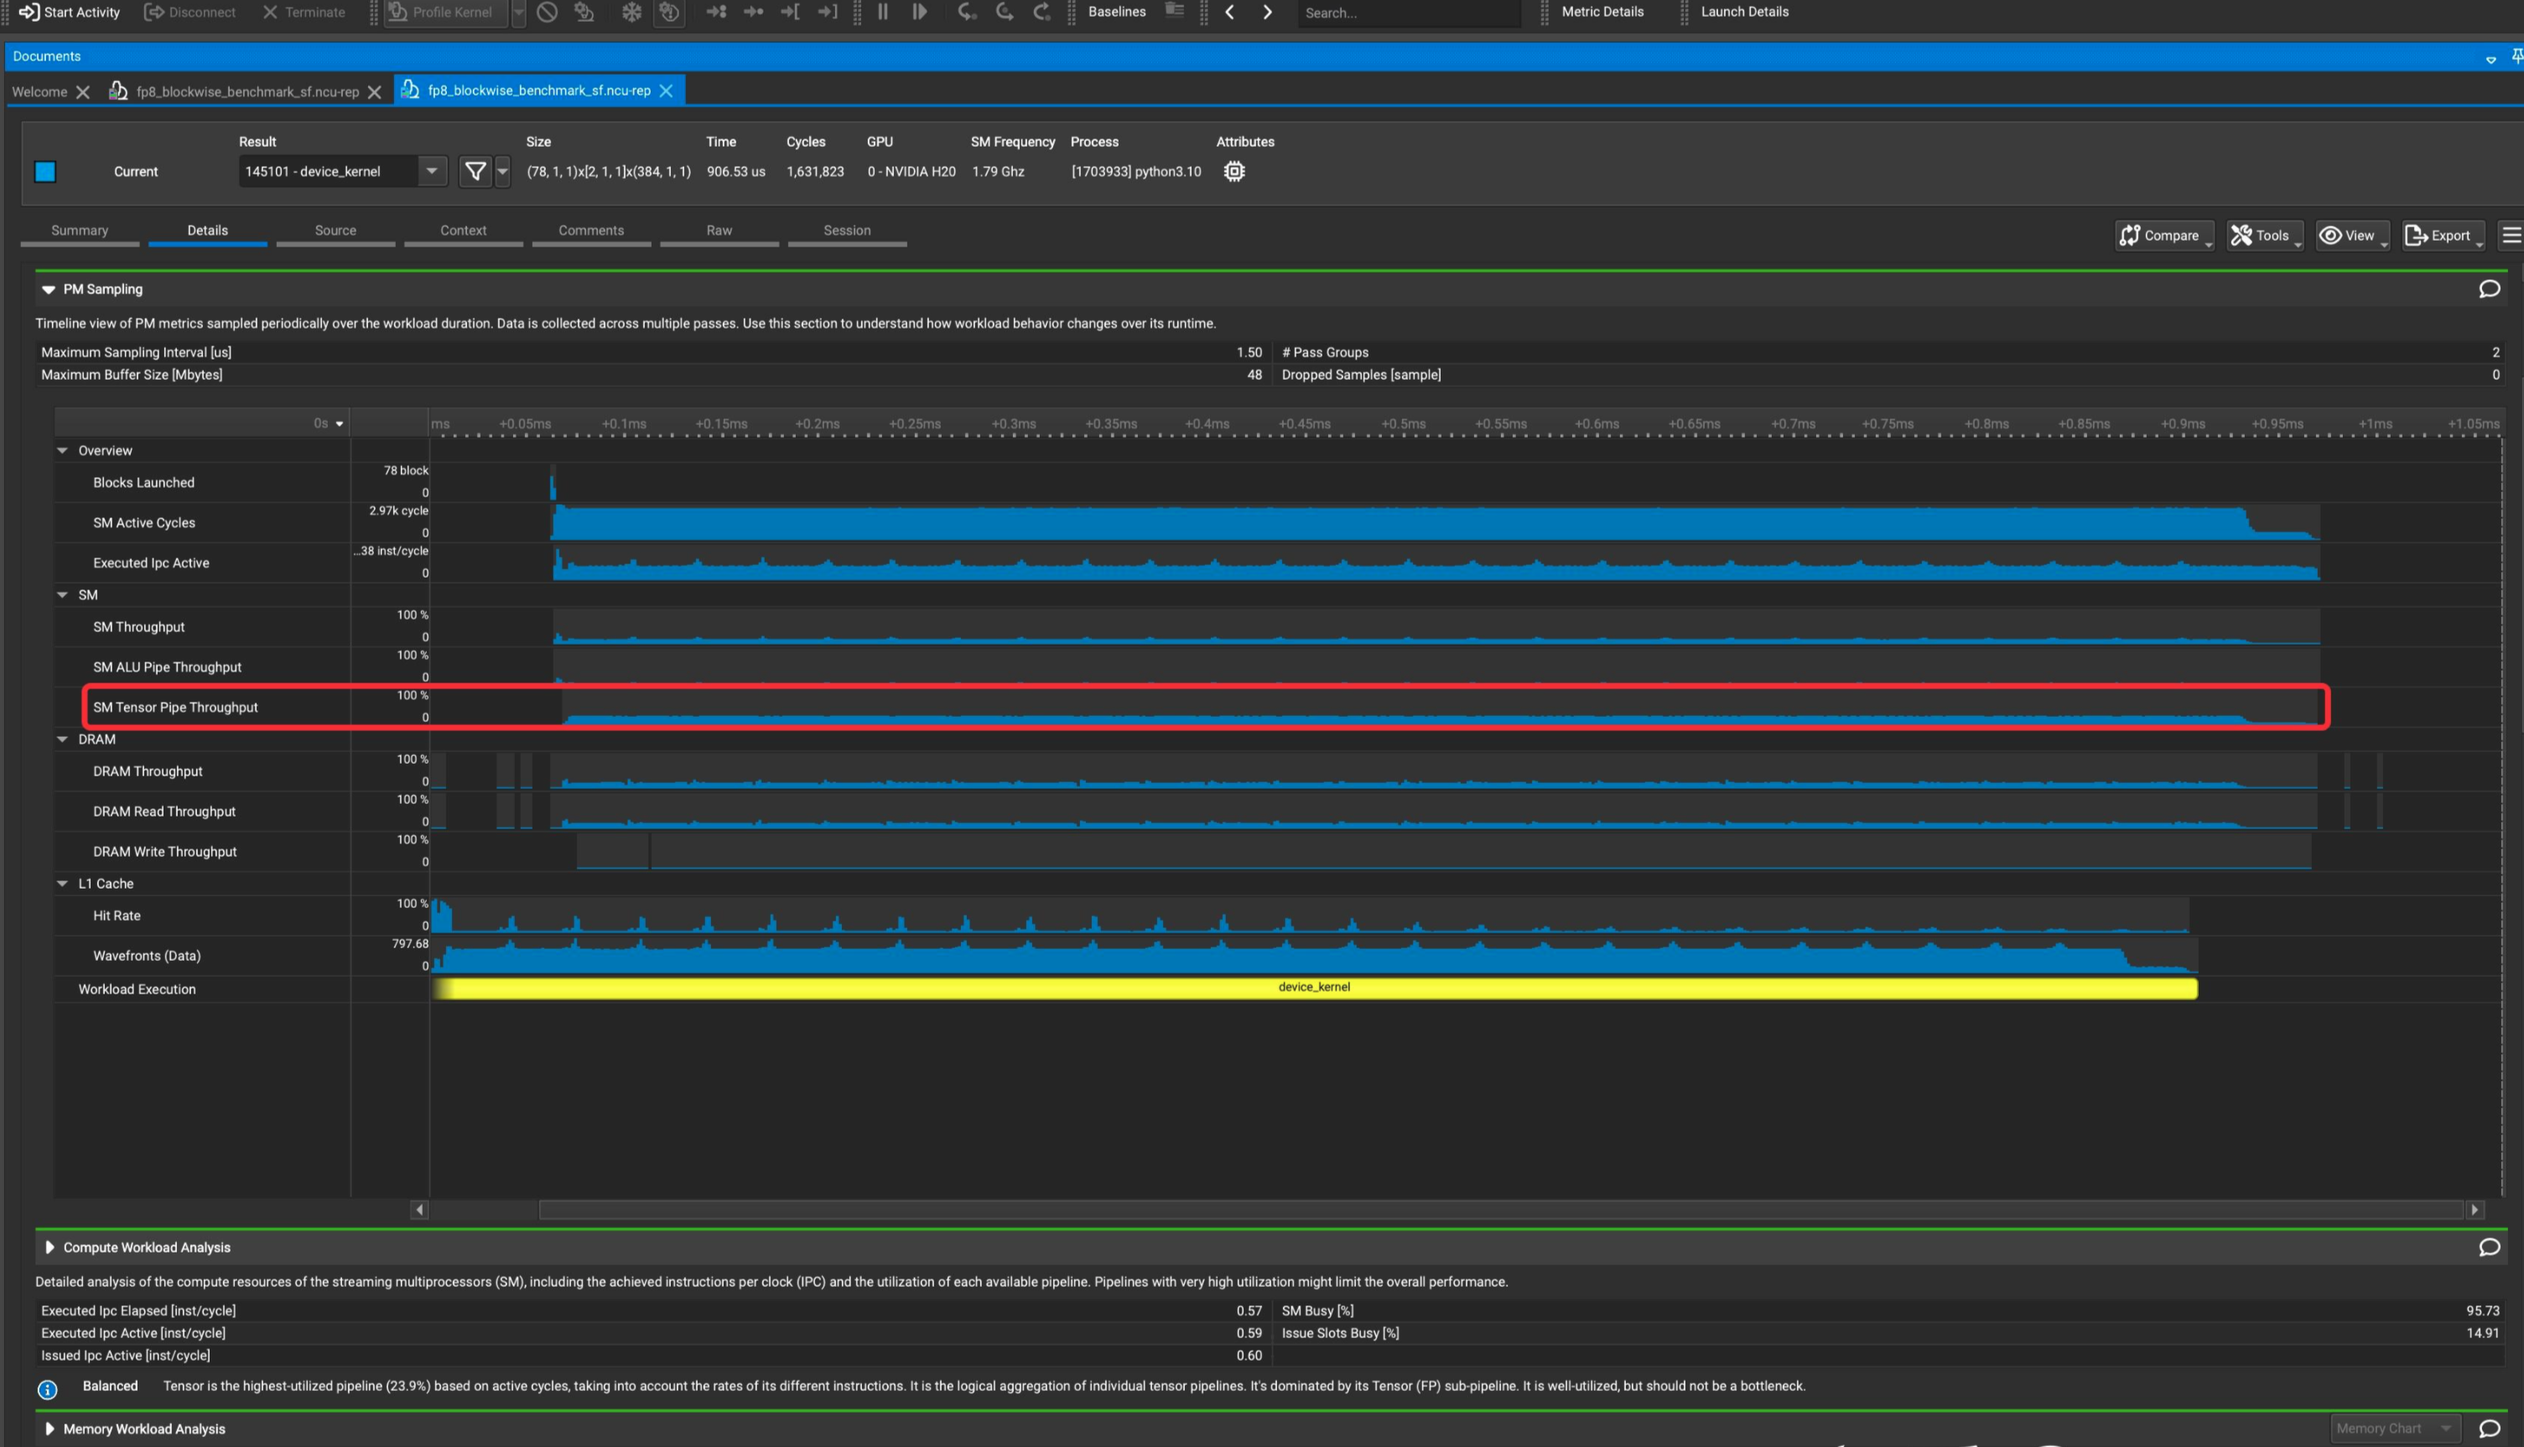
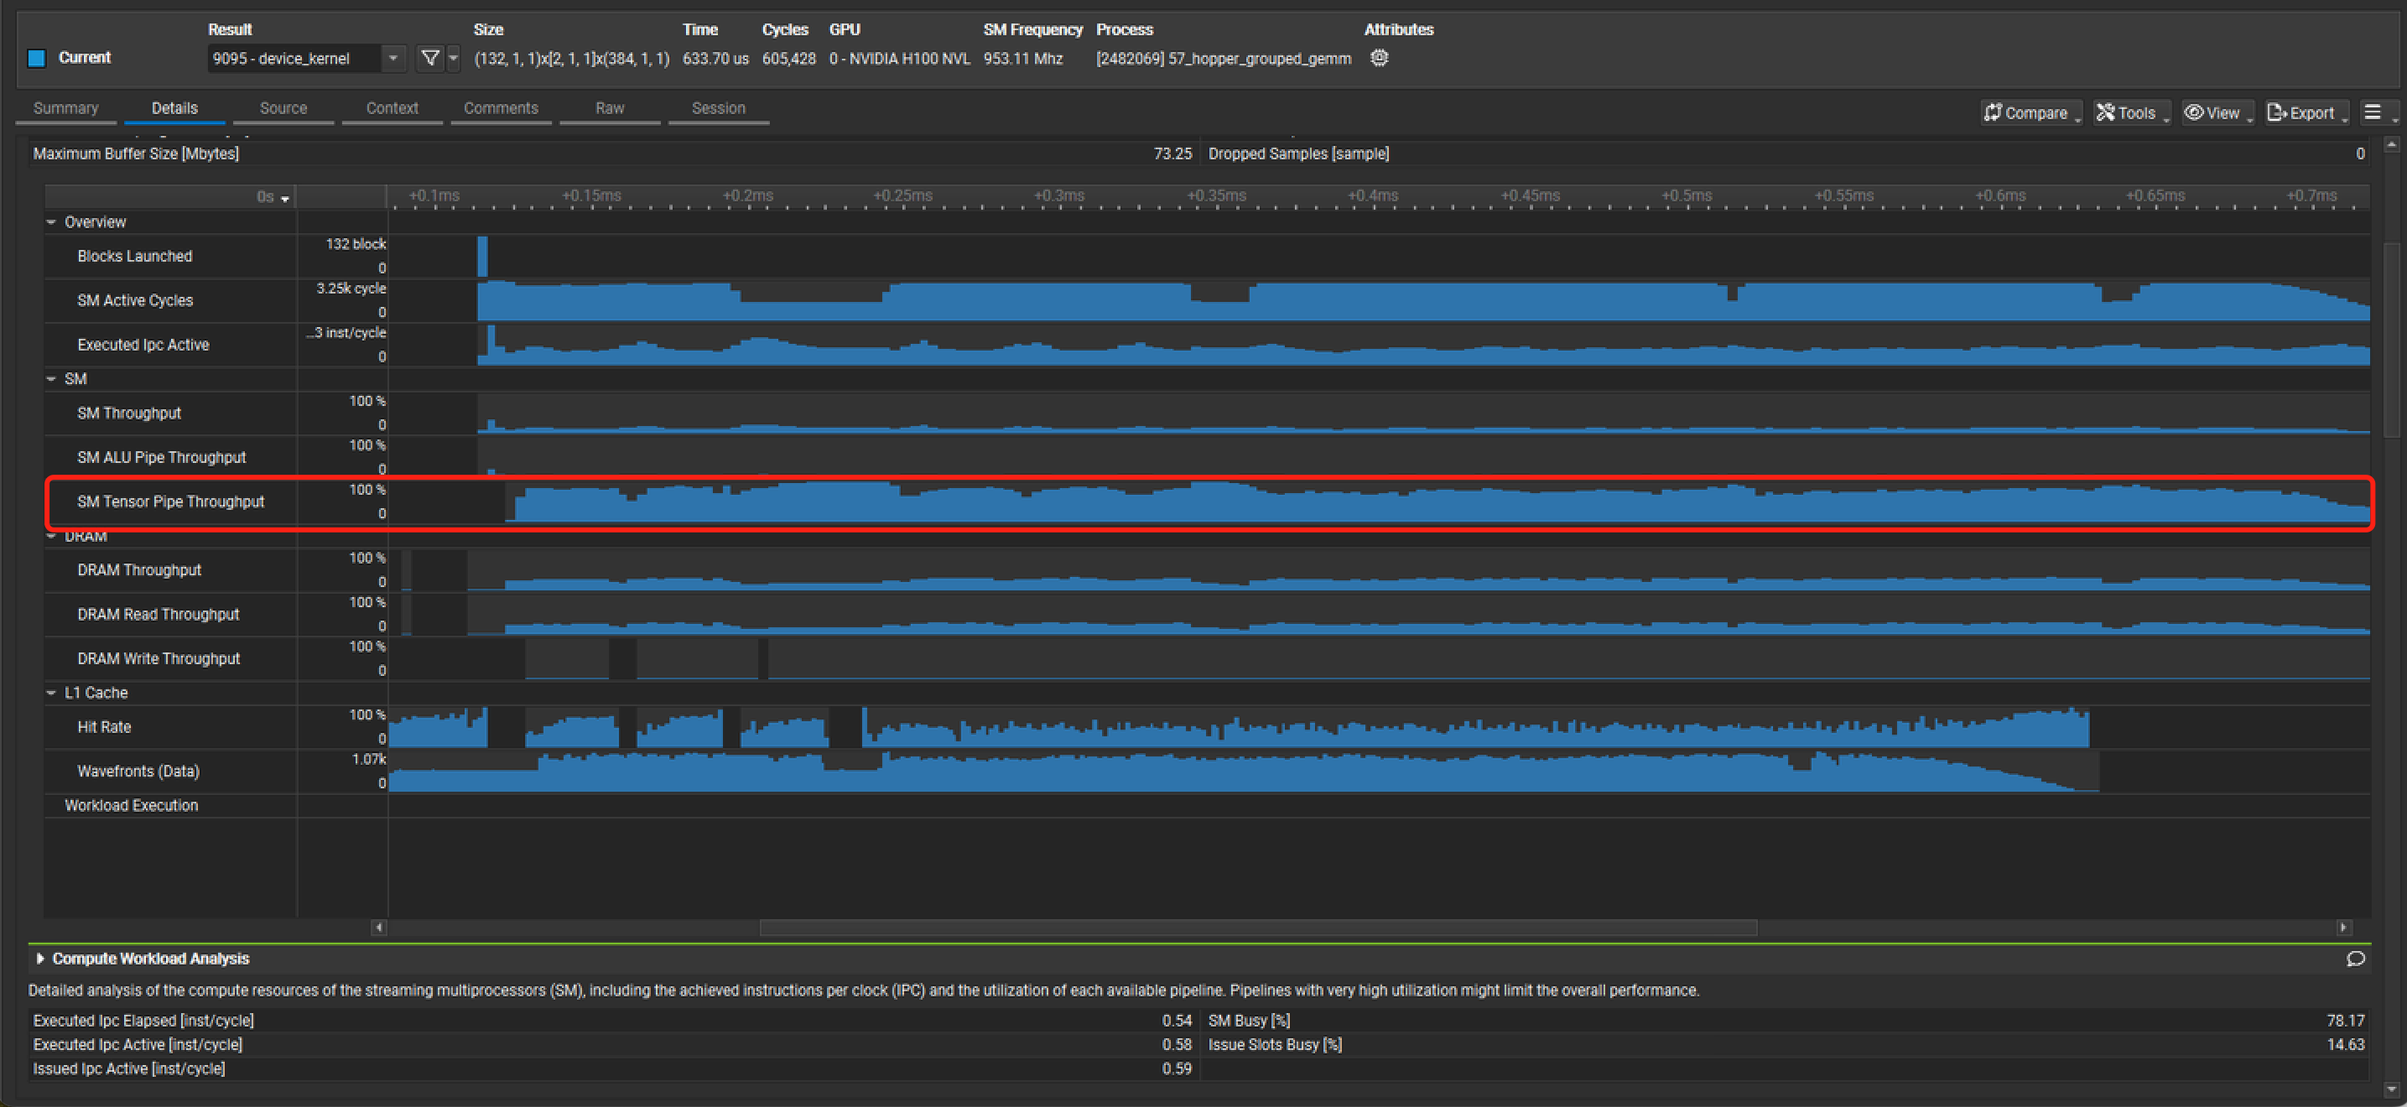
feat: update hopper gemm scheduler

diff --git a/gemm/cutlass/cooperative & ping-pong.md b/gemm/cutlass/cooperative & ping-pong.md
@@ -43,43 +43,159 @@ struct PingpongConfig {
 
 ![cooperative](../../assets/cooperative_gemm.png)
 
-从上图的 cooperative 示例可以看到，灰色部分代表 Epilogue， 可以看到使用 Cooperative 调度策略时，Epilogue 部分是暴露在 Timeline 上的。
+从上图的 cooperative 示例可以看到，绿色的是 prologue TMA 加载数据，蓝色的就是 TC，灰色部分代表 Epilogue， 可以看到使用 Cooperative 调度策略时，Epilogue 部分是暴露在 Timeline 上的。
 
 相比之下，使用 Ping-pong 调度策略时，Epilogue 部分则是完全被 Mainloop 部分 Overlap 掉了，如下图所示：
 
 ![ping-pong](../../assets/ping-pong_gemm.png)
 
-上面的两张图片只是理想情况下的简单示例。接下来看一看真实 Kernel 的 Timeline 是否和上图具有一致的现象，此时我们需要利用 nc u的一个新特性——[PM Sampling](https://docs.nvidia.com/nsight-compute/ProfilingGuide/index.html#pm-sampling)。
+上面的两张图片只是理想情况下的简单示例。接下来看一看真实 Kernel 的 Timeline 是否和上图具有一致的现象，此时我们需要利用 ncu 的一个新特性——[PM Sampling](https://docs.nvidia.com/nsight-compute/ProfilingGuide/index.html#pm-sampling)。
 
-按照如下配置分别运行使用 Cooperative 调度策略和 Ping-pong 调度策略的 FP8 Blockwise Scaling Grouped GEMM：
+按照如下配置分别运行使用 Cooperative 调度策略和 Ping-pong 调度策略的 Hopper Grouped GEMM：
 
 ```bash
-num_groups=256
-M=128
-N=512
-K=7168
+num_groups = 256
+M = 128
+N = 512
+K = 7168
 ```
 
 观察 Cooperative Kernel 的 PM Sampling Timeline：
 
 ![Cooperative_PM_Sampling](../../assets/Cooperative_PM_Sampling.png)
 
-可以看到，Tensor Pipe Throughput 出现了非常明显的周期性下降的现象，在 Timeline 上形成了一些“缺口”。如果我们仔细的去数一数这些“缺口”的数量，可以发现这些“缺口”共有 12 个。因为使用的是 H20 GPU（具有 78 个 SM Core），并且 Cooperative 调度策略使用的 Tile Shape 为 (128, 128, 128)，因此我们可以推算每个 CTA 需要计算的 Output Tile 的数量：
+可以看到，Tensor Pipe Throughput 出现了非常明显的周期性下降的现象，在 Timeline 上形成了一些“缺口”。如果我们仔细的去数一数这些“缺口”的数量，可以发现这些“缺口”共有 7 个。因为使用的是 **H100 GPU（有 132 个 SM Core）**，并且 Cooperative 调度策略使用的 Tile Shape 为 (128, 128, 128)，因此我们可以推算每个 CTA 需要计算的 Output Tile 的数量：
 
 ```bash
 >>> num_groups = 256 
 >>> M = 128
 >>> N = 512
->> TileShapeM = 128 
->> TileShapeN 128 
->>> CTAs = 78
->> num_groups * ((M / TileShapeM) * (N / TileShapeN) / CTAs 
-13.128205128205128
+>>> TileShapeM = 128 
+>>> TileShapeN = 128 
+>>> CTAs = 132
+>> num_groups * ((M / TileShapeM) * (N / TileShapeN)) / CTAs 
+7.757575757575758
 ```
 
-显然，多数 CTA 需要计算 13 个 Output Tile，在 Warp Specialization Persistent Kernel 中，每个 SM Core 只调度一个 CTA，因此 SM Core 上的运行状况就是单个 CTA 的运行状况。12 个缺口恰好对应了前 12 个 Output Tile 的 Epilogue 阶段。相比之下，Ping-pong 调度策略的 PM Sampling Timeline 显示 Tensor Pipe Throughput 始终处于一个相对稳定的水平，不会出现明显的“缺口”现象：
+显然，多数 CTA 需要计算 7 个 Output Tile，在 Warp Specialization Persistent Kernel 中，每个 SM Core 只调度一个 CTA，因此 SM Core 上的运行状况就是单个 CTA 的运行状况。7 个缺口恰好对应了前 7 个 Output Tile 的 Epilogue 阶段。相比之下，Ping-pong 调度策略的 PM Sampling Timeline 显示 Tensor Pipe Throughput 始终处于一个相对稳定的水平，不会出现明显的“缺口”现象：
 
 ![Pingpong_PM_Sampling](../../assets/Pingpong_PM_Sampling.png)
+
+## 分析 Cooperative 无法 Overlap Epilogue 的原因
+
+猜测，只有在两个 Consumer Warp Group 都完成了 Mainloop 后，才可以安全的发起 Epilogue 操作，这一定需要同步两个 Consumer Warp Group。然后这里的同步操作，会导致 Epilogue 无法被 Overlap。
+
+阅读 CUTLASS 代码，发现并不是。运行完 Mainloop 后，就开始执行 Epilogue 了，没有同步操作。
+
+[Cooperative 代码](https://github.com/NVIDIA/cutlass/blob/a1aaf2300a8fc3a8106a05436e1a2abad0930443/include/cutlass/gemm/kernel/sm90_gemm_tma_warpspecialized_cooperative.hpp#L770)
+
+```cpp
+if (TileScheduler::valid_warpgroup_in_work_tile(work_tile_info)) {
+  collective_mainloop.mma(
+    mainloop_pipeline,
+    mainloop_pipe_consumer_state,
+    accumulators,
+    work_k_tile_count,
+    mma_thread_idx,
+    shared_storage.tensors.mainloop,
+    params.mainloop
+  );
+
+  // Make sure the math instructions are done and free buffers before entering the epilogue
+  collective_mainloop.mma_tail(
+    mainloop_pipeline,
+    mainloop_pipe_consumer_state,
+    work_k_tile_count
+  );
+
+  // Update starting mainloop pipeline state for the next tile
+  mainloop_pipe_consumer_state.advance(work_k_tile_count);
+}
+#ifdef CUTLASS_ENABLE_GDC_FOR_SM90
+if (scheduler.is_last_tile(work_tile_info)) {
+  // Hint on an early release of global memory resources.
+  // The timing of calling this function only influences performance,
+  // not functional correctness.
+  cutlass::arch::launch_dependent_grids();
+
+}
+#endif
+
+// Index of warp group within consumer warp groups
+int consumer_warp_group_idx = canonical_warp_group_idx() - NumLoadWarpGroups;
+
+// Perform reduction across splits, if needed
+TileScheduler::fixup(
+  params.scheduler, work_tile_info, accumulators, NumMmaWarpGroups, consumer_warp_group_idx);
+
+if (TileScheduler::compute_epilogue(work_tile_info, params.scheduler)) {
+  // Epilogue and write to gD
+  auto [epi_load_pipe_consumer_state_next, epi_store_pipe_producer_state_next] =
+  collective_epilogue.store(
+    epi_load_pipeline,
+    epi_load_pipe_consumer_state,
+    epi_store_pipeline,
+    epi_store_pipe_producer_state,
+    problem_shape_MNKL,
+    blk_shape,
+    blk_coord,
+    accumulators,
+    tiled_mma,
+    mma_thread_idx,
+    shared_storage.tensors.epilogue,
+    work_tile_info.reduction_subtile_idx()
+  );
+  epi_load_pipe_consumer_state = epi_load_pipe_consumer_state_next;
+  epi_store_pipe_producer_state = epi_store_pipe_producer_state_next;
+  do_store_tail = true;
+}
+```
+
+阅读 CUTLASS issue：
+
+[Why we have both Ping-pong and Cooperative schedule?](https://github.com/NVIDIA/cutlass/issues/2181)
+
+有人提到，对于 Cooperative Kernel 来说，Producer Warp Group 每次进行数据拷贝时，是利用单个 TMA 请求为两个 Consumer Warp Group 拷贝一整块的数据，只要拿到数据，两个 Warp Group 就会同时开始工作，在 Cooperative Kernel 中，并未对这两个 Warp Group 的执行顺序进行任何限制，而是放任它们以一种"竞争"的姿态争抢 Tensor Core 资源完成计算。**通常，对于两个 Warp Group 来说，这种竞争都是一种"势均力敌"的状态，一般不会出现一个 Warp Group 的执行进度显著的领先于另一个 Warp Group 的情况。因此无法有效的 Overlap 掉 Epilogue。**
+
+而且，有限的 StageCount 也会将 Warp Group 执行进度的差异控制在 StageCount 以内，因为两个 Warp Group 依赖于相同的数据，即使一个 Warp Group 很早地完成了自己的 StageCount 个计算任务，也必须要等待另一个 Warp Group 也完成 StageCount 个计算任务，才可以释放 Shared Memory Buffer 允许 Producer Warp Group 填充新的数据。因此，**两个 Warp Group 在 Mainloop 阶段的执行进度不会有太大的差异，即使有差异，最大也不会超过流水线级数 StageCount，结束 Mainloop 执行的时刻也是相近的，显然，这样肯定是无法有效的 Overlap 掉 Epilogue 的**。
+
+在此基础上，可以和 Ping-pong 调度策略进行对比，在 Ping-pong 调度策略中，由于两个 Consumer Warp Group 负责计算不同的 Output Tile，因此它们的输入数据也是完全独立的，对于任意一个 Consumer Warp Group，只要它的输入数据消费完毕，Shared Memory Buffer 就可以立即释放，并不会受到另一个 Consumer Warp Group 的影响。
+
+显然，此时两个 Warp Group 可以以任意的顺序执行，但是为了避免出现 Cooperative 中那种"势均力敌"的情况导致 Epilogue 无法被有效的 Overlap，Ping-pong 调度策略引入了 Ordered Sequence Barrier 用于强制约束两个 Warp Group 的执行顺序：
+
+[Ping-pong 代码](https://github.com/NVIDIA/cutlass/blob/a1aaf2300a8fc3a8106a05436e1a2abad0930443/include/cutlass/gemm/kernel/sm90_gemm_tma_warpspecialized_pingpong.hpp#L845)
+
+从以下 Ping-pong 代码中可以观察到，Ordered Sequence Barrier 的 wait 和 arrive 强制一个 Warp Group 完成自己的 Mainloop 后，另一个 Warp Group 才可以执行自己的 Mainloop。两 个Warp Group 的 Mainloop 执行阶段是完全错开的，因此可以用一个 Warp Group 的 Mainloop 执行阶段 Overlap 另一个 Warp Group 的 Epilogue。
+
+```cpp
+// Allocate the accumulators for the (M,N) blk_shape
+Tensor accumulators = partition_fragment_C(tiled_mma, take<0,2>(blk_shape));               // (MMA,MMA_M,MMA_N)
+
+// Order two Math WG's MMA one after the other, helps hide Epilogue
+math_wg_order_barrier.wait();
+
+collective_mainloop.mma(
+  mainloop_pipeline,
+  mainloop_pipe_consumer_state,
+  accumulators,
+  k_tile_count,
+  warp_group_thread_idx,
+  shared_storage.tensors.mainloop,
+  params.mainloop
+);
+
+// Cue for next Math WG's MMA to start
+math_wg_order_barrier.arrive();
+
+// Make sure the math instructions are done and free buffers before entering the epilogue
+collective_mainloop.mma_tail(
+  mainloop_pipeline,
+  mainloop_pipe_consumer_state,
+  k_tile_count
+);
+// Update starting mainloop pipeline state for the next tile
+mainloop_pipe_consumer_state.advance(k_tile_count * NumMmaWarpGroups);
+```
 
 ## 总结
 
